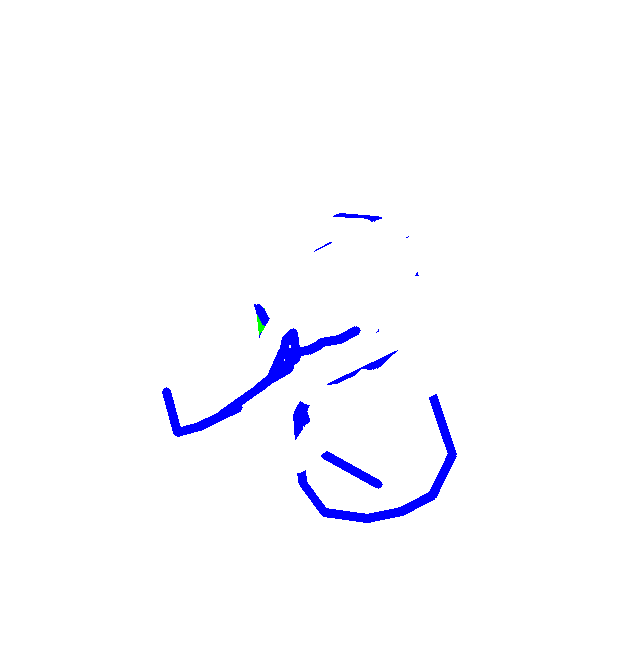
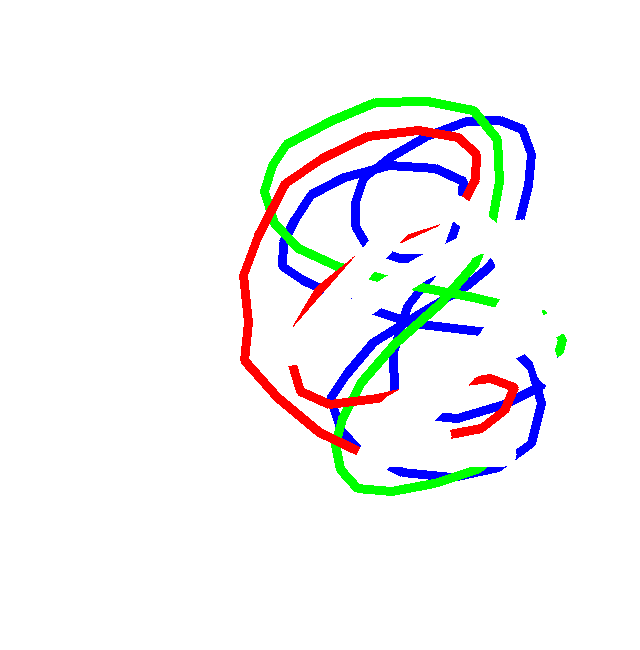
Adicionando o modulos

Changed region(s): [[0.25, 0.1231, 0.875, 0.8308], [0.8438, 0.5231, 0.9062, 0.5538]]

diff --git a/modulos/navegador.py b/modulos/navegador.py
@@ -4,11 +4,11 @@ import webbrowser
 import cv2
 from pynput.mouse import Controller as Mouse, Button
 
-from .config import (RESOLUCAO_X, RESOLUCAO_Y, CHROME_PATH, NAV_MARGEM,
+from modulos.config import (RESOLUCAO_X, RESOLUCAO_Y, CHROME_PATH, NAV_MARGEM,
                      DESLIZE_DISTANCIA, DESLIZE_TEMPO, BRANCO, VERDE, VERMELHO)
-from .filtros import OneEuro
-from .gestos import tamanho_mao, distancia_polegar_indicador, DetectorDeslize
-from .ui import escreve_centro
+from modulos.filtros import OneEuro
+from modulos.gestos import tamanho_mao, distancia_polegar_indicador, DetectorDeslize
+from modulos.ui import escreve_centro
 
 AMARELO = (0, 255, 255)
 URL_INICIAL = "https://www.google.com"
